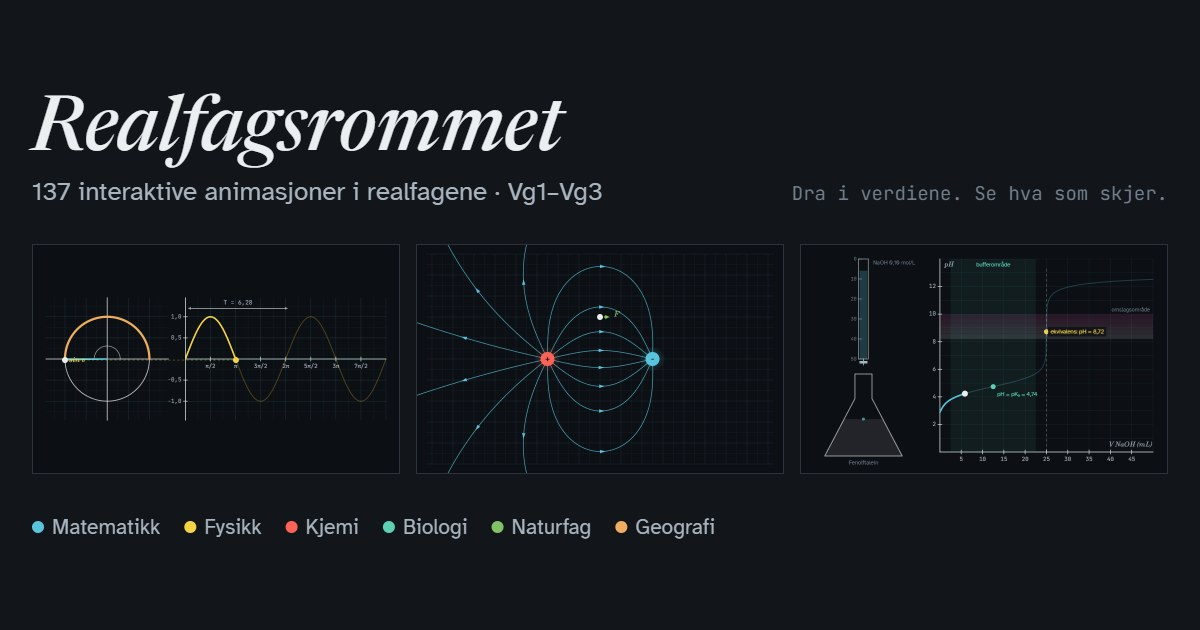
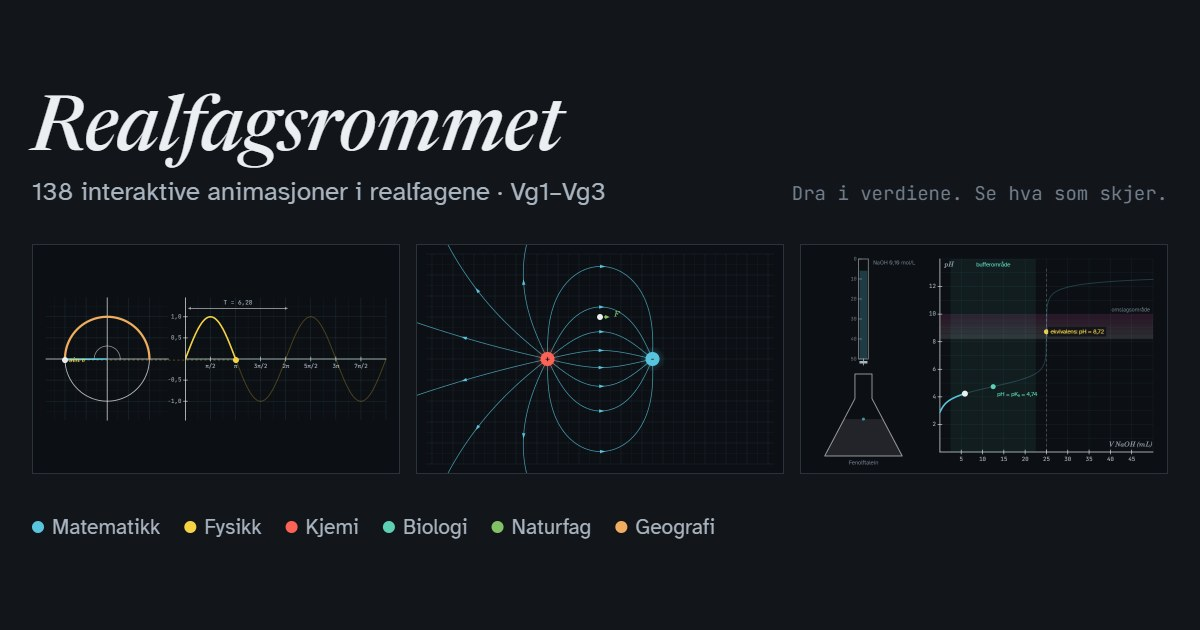
Legg til animasjon om standardavvik steg for steg (2P)
Viser gjennomsnitt, avvik, kvadrerte avvik som ekte kvadrater, varians
som gjennomsnittsareal og standardavviket som siden i det gule kvadratet.

Changed region(s): [[0.0308, 0.2714, 0.5242, 0.3317]]

diff --git a/assets/js/moduler/matematikk-5.js b/assets/js/moduler/matematikk-5.js
@@ -1,0 +1,64 @@
+'use strict';
+/* ================= MATEMATIKK (del 5) ================= */
+
+/* ---------- Standardavvik steg for steg ---------- */
+{
+const SETT={A:[6,8,10,12,14,10],lite:[9,10,10,11,9,11],stor:[3,5,10,15,17,10]};
+const STEG=[[1,'1. Gjennomsnitt'],[2,'2. Avvik'],[3,'3. Kvadrer'],[4,'4. Snitt av kvadratene'],[5,'5. Kvadratrot']];
+const TXT={1:['Gjennomsnittet er balansepunktet','Legg sammen alle verdiene og del på antallet. Tenk deg at punktene er like tunge lodd på en vippe.'],
+ 2:['Avvik: hvor langt er hvert punkt fra gjennomsnittet?','Avvikene til høyre er positive og til venstre negative. Summen av avvikene er alltid 0, så snittet av dem sier ingenting.'],
+ 3:['Kvadrer avvikene','Hvert avvik blir siden i et kvadrat. Arealet er avviket opphøyd i andre, og det er aldri negativt. Store avvik gir svært store kvadrater.'],
+ 4:['Finn gjennomsnittet av kvadratene','Flytt alle kvadratene til samme hjørne. Det gule kvadratet har gjennomsnittsarealet. Det arealet kalles variansen.'],
+ 5:['Ta kvadratroten','Siden i det gule kvadratet er standardavviket σ. Det har samme enhet som dataene, og de fleste punktene ligger mindre enn ett standardavvik fra gjennomsnittet.']};
+const stat=d=>{const n=d.length,m=d.reduce((a,b)=>a+b,0)/n,dv=d.map(x=>x-m),q=dv.map(v=>v*v),v=q.reduce((a,b)=>a+b,0)/n;return{n,m,dv,q,v,s:Math.sqrt(v)}};
+/* tall med høyst to desimaler, uten unødvendige nuller */
+const nn=x=>{let r=nf(Math.abs(x)<5e-3?0:x,2);if(r.includes(','))r=r.replace(/0+$/,'').replace(/,$/,'');return r};
+const sg=x=>Math.abs(x)<5e-3?'0':(x>0?'+':'')+nn(x);
+/* x̄ tegnet som kursiv x med strek over (kombinerende strek vises dårlig i lerretet) */
+function xb(x,y,rest,o){const s=o.s||13,a=o.a||'left',c=o.c||C.fg;const w=tw('x',{f:'m',s:s*1.15})+tw(rest,{f:'n',s});const x0=a==='center'?x-w/2:a==='right'?x-w:x;Tm('x',x0,y,{s:s*1.15,c});const xw=tw('x',{f:'m',s:s*1.15});ln(x0+1,y-s*.62,x0+xw+1,y-s*.62,c,1.2);T(rest,x0+xw+1,y,{f:'n',s,c,w:o.w})}
+const tt=x=>nn(x).replace('−','-').replace(',','{,}');
+M({id:'ma-standardavvik',s:'ma',c:['2P'],title:'Standardavvik steg for steg',short:'Standardavvik',kw:'standardavvik varians spredning spredningsmål avvik gjennomsnitt kvadrat kvadratrot sigma statistikk datasett uteligger stdav',
+lead:'Standardavviket forteller hvor langt verdiene typisk ligger fra gjennomsnittet. Gå gjennom de fem stegene og se hvordan tallet blir til: avvik, kvadrater, gjennomsnitt og kvadratrot.',
+hint:'Dra punktene langs tallinja. Klikk på linja for å legge til et punkt.',
+controls:[{id:'st',type:'seg',label:'Steg',value:1,options:STEG},{type:'btns',items:[['Neste steg',S=>setP('st',Math.min(5,S.p.st+1),S)],['Spill av alle stegene',S=>{setP('st',1,S);S.auto=.01}]]},
+ {type:'btns',items:[['Prøveresultater',S=>MOD['ma-standardavvik'].set(S,'A')],['Liten spredning',S=>MOD['ma-standardavvik'].set(S,'lite')],['Stor spredning',S=>MOD['ma-standardavvik'].set(S,'stor')],['Legg til uteligger',S=>{if(S.d.length<10)S.d.push(20)}],['Fjern siste punkt',S=>{if(S.d.length>2)S.d.pop()}]]}],
+tex:['\\bar x=\\frac{x_1+x_2+\\dots+x_n}{n}','\\text{avvik}=x_i-\\bar x','\\sigma^2=\\frac{(x_1-\\bar x)^2+(x_2-\\bar x)^2+\\dots+(x_n-\\bar x)^2}{n}','\\sigma=\\sqrt{\\sigma^2}'],
+about:['Punktene er poeng på en prøve med maks 20 poeng. Standardavviket $\\sigma$ måler spredningen: hvor langt verdiene typisk ligger fra gjennomsnittet $\\bar x$.','Vi kan ikke bare ta gjennomsnittet av avvikene, for de positive og de negative avvikene opphever hverandre alltid. Når vi <strong>kvadrerer</strong> avvikene, blir alle positive. Kvadratene er tegnet som ekte kvadrater: siden er avviket og arealet er avviket i andre.','Gjennomsnittet av kvadratene kalles <strong>variansen</strong>, $\\sigma^2$. Den har enheten «poeng i andre», som er vanskelig å tolke. Derfor tar vi <strong>kvadratroten</strong> og får standardavviket, som har samme enhet som dataene.','Fordi avvikene kvadreres, teller store avvik mye. Én uteligger kan derfor øke standardavviket kraftig. I GeoGebra gir kommandoen Standardavvik( ) dette tallet. Utvalgsstandardavviket $s$ deler på $n-1$ i stedet for $n$ og blir litt større.'],
+tasks:['Hvorfor blir summen av avvikene alltid 0? Dra i punktene og sjekk.','Sammenlign «Liten spredning» og «Stor spredning». Begge har gjennomsnitt 10. Hva skjer med kvadratene og med σ?','Legg til en uteligger. Hvorfor øker standardavviket så mye mer enn gjennomsnittet?','Dra punktene slik at σ = 0. Hvordan ser datasettet ut da?','Regn ut standardavviket for 4, 6 og 8 for hånd. Sjekk svaret ved å lage det samme datasettet her.'],
+init(S){S.d=[...SETT.A];S.x=[...S.d];S.f=1;S.auto=0;S.ym=6},
+set(S,k){S.d=[...SETT[k]]},
+update(S,dt){S.f=smooth(S.f,S.p.st,dt,3.2);
+ if(S.auto){S.auto+=dt;if(S.auto>3.4){S.auto=.01;if(S.p.st<5)setP('st',S.p.st+1,S);else S.auto=0}}
+ while(S.x.length<S.d.length)S.x.push(S.d[S.x.length]);S.x.length=S.d.length;S.x=S.x.map((x,i)=>i===S.dr?S.d[i]:smooth(x,S.d[i],dt,9));
+ const R=stat(S.x);S.ym=smooth(S.ym,Math.max(3.5,...R.dv.map(Math.abs))+.9,dt,4)},
+geom(S){const b=pad(S,30,S.W<560?78:64,40);return Plane(-1,21,-S.ym,S.ym,b,true)},
+draw(S){const P=this.geom(S);S.P=P;const xs=S.x,R=stat(xs),f=S.f,m=R.m,y0=P.Y(0);
+ const k1=clamp(f-1,0,1),k2=clamp(f-2,0,1),k3=ease(clamp(f-3,0,1)),kq=clamp((f-3)*1.7-.7,0,1),k4=ease(clamp(f-4,0,1));
+ const step=clamp(Math.round(f),1,5),[ti,su]=TXT[step];T(ti,30,22,{f:'d',s:S.W<560?19:22,w:500,c:C.fg});Twrap(su,30,S.W<560?46:48,S.W-60,{s:13,c:C.fg2});
+ if(k4>0){const a=P.X(m-R.s*k4),b=P.X(m+R.s*k4);rct(a,P.t,b-a,P.h,null,A(C.yellow,.07*k4))}
+ ln(P.X(m),P.t,P.X(m),P.t+P.h,A(C.blue,.55),1.4,[5,5]);xb(P.X(m)+6,P.t+12,' = '+nn(m),{s:12.5,c:C.blue});
+ ln(P.X(0),y0,P.X(20),y0,A(C.fg,.85),1.6);for(let v=0;v<=20;v++){const q=P.X(v);ln(q,y0-(v%2?3:5),q,y0+(v%2?3:5),A(C.fg,.7),1.2);if(v%2===0)T(String(v),q,y0+16,{a:'center',f:'n',s:11,c:C.fg3})}
+ T('poeng',P.X(20)+8,y0,{s:12,c:C.fg3});
+ if(k1<1){const al=1-k1;X.globalAlpha=al;poly([[P.X(m),y0+3],[P.X(m)-11,y0+19],[P.X(m)+11,y0+19]],null,A(C.blue,.8));X.globalAlpha=1}
+ const col=d=>Math.abs(d)<5e-3?C.fg2:d>0?C.teal:C.red;
+ /* kvadrater: vokser fra avviket, flyttes så til samme hjørne */
+ if(k2>0){const ord=R.dv.map((d,i)=>i).sort((i,j)=>Math.abs(R.dv[j])-Math.abs(R.dv[i]));
+  ord.forEach(i=>{const d=R.dv[i],a=Math.abs(d);if(a<.01)return;const xl=lerp(Math.min(m,xs[i]),m,k3),yb=lerp(d>0?0:-a*k2,0,k3),h=a*k2;const c=col(d);
+   const px=P.X(xl),py=P.Y(yb+h),w=a*P.sx,hh=h*P.sy;rct(px,py,w,hh,A(c,.85*(1-.5*k4)),A(c,(.16-.08*k3)*(1-.4*k4)),1.6);
+   if(k3<.3&&w>24&&hh>18)T(nn(R.q[i]),px+w/2,py+hh/2,{a:'center',f:'n',s:Math.min(14,w/3),c:A(C.fg,(1-k3/.3)*k2)})})}
+ if(kq>0){const s=R.s,px=P.X(m),w=s*P.sx;rct(px,P.Y(s),w,w,A(C.yellow,kq),A(C.yellow,.28*kq),2.6);
+  X.globalAlpha=kq;T((k4>.5?'σ² = ':'snittareal = ')+nn(R.v),px+w+8,P.Y(s)+10,{f:'n',s:13,w:500,c:C.yellow});X.globalAlpha=1}
+ /* avvik som piler under tallinja */
+ const al1=k1*(1-k2);if(al1>.02){const gap=Math.min(13,(P.t+P.h-y0-34)/R.n);X.globalAlpha=al1;R.dv.forEach((d,i)=>{const y=y0+30+i*gap;if(Math.abs(d)<.01){dot(P.X(m),y,2.5,C.fg2);return}arr(P.X(m),y,P.X(xs[i]),y,col(d),2,8);T(sg(d),P.X(xs[i])+(d>0?6:-6),y,{a:d>0?'left':'right',f:'n',s:11,c:col(d)})});X.globalAlpha=1}
+ if(k4>0){const yy=y0+30,a=P.X(m-R.s),b=P.X(m+R.s);X.globalAlpha=k4;ln(P.X(m),yy,b,yy,C.yellow,4);ln(a,yy,P.X(m),yy,A(C.yellow,.6),4,[6,4]);[a,b].forEach(q=>ln(q,yy-7,q,yy+7,C.yellow,2));T('σ = '+nf(R.s,2),b+8,yy,{f:'n',s:14,w:500,c:C.yellow});xb(a,yy+20,' − σ',{a:'center',s:11,c:C.fg2});xb(b,yy+20,' + σ',{a:'center',s:11,c:C.fg2});X.globalAlpha=1}
+ /* punktene, stablet når flere har samme verdi */
+ const cnt={};S.pts=xs.map((x,i)=>{const key=Math.round(S.d[i]*100);const k=cnt[key]=(cnt[key]||0)+1;return[P.X(x),y0-(k-1)*15,i]});
+ S.pts.forEach(([px,py,i])=>{const d=R.dv[i],c=mix(C.fg,col(d),k1),inb=k4>0&&Math.abs(d)<=R.s+1e-9;if(inb)glow(px,py,16,C.yellow,.35*k4);circ(px,py,7.5,A(C.stage,1),c,2);dot(px,py,7.5,c)});
+ const line={1:`Gjennomsnitt = (${S.d.map(nn).join(' + ')}) / ${R.n} = ${nn(m)}`,2:`Avvik: ${R.dv.map(sg).join(',  ')}    Sum = 0`,3:`Kvadrater: ${R.q.map(nn).join(' + ')} = ${nn(R.q.reduce((a,b)=>a+b,0))}`,4:`Varians: σ² = ${nn(R.q.reduce((a,b)=>a+b,0))} / ${R.n} = ${nn(R.v)}`,5:`σ = √${nn(R.v)} ≈ ${nf(R.s,2)}   ·   ${R.dv.filter(d=>Math.abs(d)<=R.s+1e-9).length} av ${R.n} punkter ligger i det gule feltet`}[step];
+ Twrap(line,30,S.H-24,S.W-200,{f:'n',s:12.5,c:C.fg})},
+pick(S,x,y){for(const[px,py,i]of (S.pts||[]).slice().reverse())if(near(x,y,px,py,16)){S.dr=i;return{move:mx=>{S.d[i]=clamp(Math.round(S.P.ix(mx)),0,20);S.x[i]=S.d[i]},up:()=>{S.dr=-1}}}},
+click(S,x,y){const P=S.P;if(!P||S.d.length>=10)return;if(Math.abs(y-P.Y(0))<26){const v=Math.round(P.ix(x));if(v>=0&&v<=20)S.d.push(v)}},
+readout(S){const R=stat(S.d);return[['n',R.n],['x̄',nn(R.m),'blue'],['sum av avvik','0'],['varians σ²',nn(R.v)],['σ',nf(R.s,2),'yellow']]},
+live(S){const R=stat(S.d);return`\\begin{aligned}\\sigma&=\\sqrt{\\frac{${R.q.map(tt).join('+')}}{${R.n}}}\\\\&=\\sqrt{${tt(R.v)}}\\approx ${tn(R.s,2)}\\end{aligned}`}
+});
+}

diff --git a/assets/js/laereplan.js b/assets/js/laereplan.js
@@ -4,7 +4,7 @@ const PLAN=[
  {k:'1T',t:[['Likninger, likningssett og ulikheter',['ma-likningssett','ma-andregrad']],['Andregradsfunksjoner og kvadratsetningene',['ma-andregrad']],['Lineære funksjoner',['ma-lineaer']],['Gjennomsnittlig og momentan vekstfart',['ma-sekant']],['Pytagoras’ setning',['ma-pytagoras']],['Sinus, cosinus og tangens',['ma-trekant','ma-enhetssirkel']],['Sinussetningen, cosinussetningen og arealsetningen',['ma-trekant']],['Algoritmer for å løse likninger',['ma-algoritme']],['Bevis og argumentasjon',['ma-bevis','ma-pytagoras']]]},
  {k:'NAT',t:[['Utforske en egen problemstilling og argumentere for valg av metode',['na-metode','fy-usikkerhet']],['Risikovurdere forsøk og håndtere avfallet forsvarlig',['na-sikkerhet']],['Hypoteser, modeller og teorier som forklarer verden',['na-metode','fy-atommodell','na-bigbang']],['Lage programmer som modellerer naturfaglige fenomener',['na-programmering','fy-luftmotstand']],['Sentrale bølgefenomener',['na-bolger','na-interferens']],['Trådløs kommunikasjon',['na-tradlos','na-spekter']],['Elektromagnetisk og ioniserende stråling, og helseeffekter',['na-spekter','na-ioniserende','na-halvering']],['Big bang og observasjoner som støtter teorien',['na-bigbang','fy-stjerneliv']],['Kjemiske bindinger og stoffenes egenskaper',['na-stoffegenskaper','ki-binding','ki-atom','ki-periodesystem','na-parfyme']],['Karbonforbindelser og karbonets betydning for livet',['na-forbrenning','ki-organisk','na-ester','na-melkesyre','na-havforsuring','na-karbon','bi-fotosyntese']],['Miljøgifter i næringskjeder og tiltak for helse og miljø',['na-miljogift','bi-energipyramide']],['Næringsstoffer og et variert kosthold',['na-kosthold','bi-blodsukker','na-konservering']],['Helse og livsstil, og hvor pålitelig informasjonen er',['na-risiko','na-smitte','na-immun','na-resistens','na-hormoner']],['DNA, arv og evolusjon',['na-dna','na-arv','na-evolusjon','bi-celledeling']],['Klimaendringer, utbredelse av arter og biologisk mangfold',['na-utbredelse','na-drivhus','na-karbon','na-havforsuring','na-okologi']],['Bioteknologi og etiske spørsmål',['na-crispr','bi-pcr']],['Energi og energiomforming (også i yrkesfagene)',['na-energi','fy-energi','fy-varme','fy-vindkraft','fy-energikilder']],['Syrer og baser (også i yrkesfagene)',['ki-ph','na-havforsuring','na-melkesyre','na-konservering']]]},
  {k:'GEO',t:[['Kart, kartprojeksjoner og geografiske verktøy',['ge-kart']],['Platetektonikk, jordskjelv og vulkaner',['ge-plater']],['Isbreer, landformer og landheving',['ge-isbre']],['Elver, erosjon og sedimenter',['ge-elv']],['Vær, klima og nedbør',['ge-regnskygge','ge-arstider']],['Solinnstråling, årstider og klimasoner',['ge-arstider']],['Naturfarer: flom og skred',['ge-flom']],['Klimaendringer og karbonkretsløpet',['na-karbon','na-drivhus']],['Befolkningsutvikling og demografi',['ge-befolkning']],['Naturressurser og energi',['fy-vindkraft']]]},
- {k:'2P',t:[['Sentralmål og spredningsmål',['ma-statistikk']],['Regresjon og modeller av data',['ma-regresjon']],['Eksponentiell vekst og vekstfaktor',['ma-vekstfaktor']],['Lineære og eksponentielle modeller',['ma-regresjon','ma-lineaer']],['Lån og personlig økonomi',['ma-lan']],['Befolkningsmodeller',['ge-befolkning']],['Algoritmer og programmering',['ma-algoritme']]]},
+ {k:'2P',t:[['Sentralmål og spredningsmål',['ma-statistikk','ma-standardavvik']],['Regresjon og modeller av data',['ma-regresjon']],['Eksponentiell vekst og vekstfaktor',['ma-vekstfaktor']],['Lineære og eksponentielle modeller',['ma-regresjon','ma-lineaer']],['Lån og personlig økonomi',['ma-lan']],['Befolkningsmodeller',['ge-befolkning']],['Algoritmer og programmering',['ma-algoritme']]]},
  {k:'R1',t:[['Vekstfart, grenseverdier og kontinuitet',['ma-grense','ma-sekant']],['Den deriverte geometrisk, algebraisk og numerisk',['ma-sekant']],['Funksjonsdrøfting med derivasjon',['ma-drofting']],['Newtons metode og numeriske løsninger',['ma-algoritme']],['Potenser, logaritmer og omvendte funksjoner',['ma-logaritme']],['Eksponentiell og logistisk vekst',['ma-logistisk']],['Modeller av reelle datasett',['ma-regresjon','ma-logistisk']],['Parameterframstilling av linjer',['ma-parameter']],['Vektorer i planet',['ma-vektor']]]},
  {k:'S1',t:[['Gjennomsnittlig og momentan vekstfart, derivasjon',['ma-sekant','ma-drofting']],['Grenseverdier og kontinuitet',['ma-grense']],['Optimering med derivasjon',['ma-okonomi','ma-drofting']],['Potenser og logaritmer',['ma-logaritme']],['Kombinatorikk og sannsynlighet',['ma-urne']],['Binomisk og hypergeometrisk fordeling',['ma-urne','ma-galton']],['Simulering av stokastiske forsøk',['ma-urne','ma-galton','bi-fangst']],['Utvalg og estimering',['ma-sgs','bi-fangst']]]},
  {k:'FY1',t:[['Planlegge og gjennomføre forsøk, analysere data og trekke konklusjoner',['na-metode','fy-usikkerhet','fy-friksjon']],['Vurdere, bruke og lage modeller',['fy-strikkhopp','na-programmering','fy-luftmotstand']],['Påstander og argumenter om energi og klima',['fy-energikilder','fy-vindkraft','fy-varmepumpe','na-drivhus']],['Rettlinjet bevegelse',['fy-bevegelse']],['Krefter, bevegelse og energi',['fy-newton','fy-friksjon','fy-heis','fy-fjaer','fy-energi']],['Numeriske metoder og programmering når akselerasjonen ikke er konstant',['fy-luftmotstand','fy-strikkhopp','na-programmering']],['Bevaring av bevegelsesmengde og energi',['fy-stot','fy-ballistisk','fy-energi']],['Energiomforming, energikvalitet og virkningsgrad',['na-energi','fy-varmepumpe','fy-energi']],['Ladning, spenning, elektrisk energi og effekt i kretser',['fy-krets','fy-iu']],['Temperatur, varme og temperaturendring',['fy-varme','fy-varmekapasitet','ki-gass']],['Stråling fra legemer med ulik temperatur og overflate',['fy-sortlegeme','fy-overflate']],['Jordas strålingsbalanse',['na-drivhus','fy-overflate']],['Atommodeller og observasjoner som støtter eller utfordrer dem',['fy-atommodell','fy-bohr']],['Fusjon, og hvordan grunnstoffer dannes i stjerner',['fy-fusjon','fy-stjerneliv']]]},

diff --git a/animasjon/ma-standardavvik/index.html b/animasjon/ma-standardavvik/index.html
@@ -1,0 +1,33 @@
+<!doctype html>
+<html lang="nb">
+<head>
+<meta charset="utf-8">
+<meta name="viewport" content="width=device-width,initial-scale=1">
+<title>Standardavvik steg for steg · Realfagsrommet</title>
+<meta name="description" content="Standardavviket forteller hvor langt verdiene typisk ligger fra gjennomsnittet. Gå gjennom de fem stegene og se hvordan tallet blir til: avvik, kvadrater, gjennomsnitt og kvadratrot.">
+<link rel="canonical" href="https://isakhallen.github.io/Realfagsrommet/animasjon/ma-standardavvik/">
+<meta property="og:type" content="website">
+<meta property="og:site_name" content="Realfagsrommet">
+<meta property="og:locale" content="nb_NO">
+<meta property="og:title" content="Standardavvik steg for steg">
+<meta property="og:description" content="Standardavviket forteller hvor langt verdiene typisk ligger fra gjennomsnittet. Gå gjennom de fem stegene og se hvordan tallet blir til: avvik, kvadrater, gjennomsnitt og kvadratrot.">
+<meta property="og:url" content="https://isakhallen.github.io/Realfagsrommet/animasjon/ma-standardavvik/">
+<meta property="og:image" content="https://isakhallen.github.io/Realfagsrommet/assets/bilder/animasjoner/ma-standardavvik.jpg">
+<meta property="og:image:width" content="1200">
+<meta property="og:image:height" content="630">
+<meta property="og:image:alt" content="Animasjon: Standardavvik steg for steg">
+<meta name="twitter:card" content="summary_large_image">
+<meta name="theme-color" content="#12161B">
+<link rel="icon" href="../../favicon.svg" type="image/svg+xml">
+<script>location.replace('../../#ma-standardavvik')</script>
+<style>body{margin:0;min-height:100vh;display:grid;place-items:center;padding:16px;box-sizing:border-box;background:#12161B;color:#ECEFF1;font:17px/1.55 system-ui,sans-serif}main{max-width:60ch}h1{font-weight:500}p{color:#A9B4BF}a{color:#58C4DD}</style>
+</head>
+<body>
+<main>
+<p>Realfagsrommet · Matematikk · Matematikk 2P</p>
+<h1>Standardavvik steg for steg</h1>
+<p>Standardavviket forteller hvor langt verdiene typisk ligger fra gjennomsnittet. Gå gjennom de fem stegene og se hvordan tallet blir til: avvik, kvadrater, gjennomsnitt og kvadratrot.</p>
+<p><a href="../../#ma-standardavvik">Åpne animasjonen</a></p>
+</main>
+</body>
+</html>

diff --git a/index.html b/index.html
@@ -4,7 +4,7 @@
 <meta charset="utf-8">
 <meta name="viewport" content="width=device-width,initial-scale=1,viewport-fit=cover">
 <title>Realfagsrommet</title>
-<meta name="description" content="137 interaktive animasjoner i matematikk, fysikk, kjemi, biologi, naturfag og geografi for Vg1–Vg3. Dra i verdiene, se hva som skjer, og les formelen som forklarer det.">
+<meta name="description" content="138 interaktive animasjoner i matematikk, fysikk, kjemi, biologi, naturfag og geografi for Vg1–Vg3. Dra i verdiene, se hva som skjer, og les formelen som forklarer det.">
 <meta name="theme-color" content="#12161B">
 <meta name="color-scheme" content="dark">
 <link rel="icon" href="favicon.svg" type="image/svg+xml">
@@ -17,7 +17,7 @@
 <meta property="og:site_name" content="Realfagsrommet">
 <meta property="og:locale" content="nb_NO">
 <meta property="og:title" content="Realfagsrommet">
-<meta property="og:description" content="137 interaktive animasjoner i matematikk, fysikk, kjemi, biologi, naturfag og geografi for Vg1–Vg3. Dra i verdiene, se hva som skjer, og les formelen som forklarer det.">
+<meta property="og:description" content="138 interaktive animasjoner i matematikk, fysikk, kjemi, biologi, naturfag og geografi for Vg1–Vg3. Dra i verdiene, se hva som skjer, og les formelen som forklarer det.">
 <meta property="og:url" content="https://isakhallen.github.io/Realfagsrommet/">
 <meta property="og:image" content="https://isakhallen.github.io/Realfagsrommet/assets/bilder/forside.jpg">
 <meta property="og:image:width" content="1200">
@@ -35,6 +35,7 @@
 <script defer src="assets/js/moduler/matematikk-2.js"></script>
 <script defer src="assets/js/moduler/matematikk-3.js"></script>
 <script defer src="assets/js/moduler/matematikk-4.js"></script>
+<script defer src="assets/js/moduler/matematikk-5.js"></script>
 <script defer src="assets/js/moduler/fysikk-1.js"></script>
 <script defer src="assets/js/moduler/fysikk-2.js"></script>
 <script defer src="assets/js/moduler/fysikk-3.js"></script>

diff --git a/assets/js/temaer.js b/assets/js/temaer.js
@@ -8,7 +8,7 @@ const TEMA={
   ['derivasjon','Grenseverdier og derivasjon',['ma-grense','ma-sekant','ma-drofting']],
   ['integrasjon','Integrasjon, rekker og differensiallikninger',['ma-riemann','ma-fundamental','ma-omdreining','ma-rekker','ma-retningsfelt','fy-fjaer']],
   ['vektorer','Vektorer og parameterframstilling',['ma-vektor','ma-vektor3d','ma-parameter']],
-  ['statistikk','Statistikk og sannsynlighet',['ma-statistikk','ma-urne','ma-galton','ma-sgs','ma-hypotese','na-risiko','bi-fangst']]],
+  ['statistikk','Statistikk og sannsynlighet',['ma-statistikk','ma-standardavvik','ma-urne','ma-galton','ma-sgs','ma-hypotese','na-risiko','bi-fangst']]],
  fy:[['bevegelse','Bevegelse og krefter',['fy-bevegelse','fy-newton','fy-friksjon','fy-heis','fy-luftmotstand','fy-strikkhopp','fy-stot','fy-ballistisk','fy-kast','fy-sirkel','fy-gravitasjon']],
   ['energi','Energi, varme og svingninger',['fy-energi','na-energi','fy-varme','fy-varmekapasitet','ki-gass','fy-fjaer','fy-varmepumpe','fy-vindkraft','fy-energikilder']],
   ['elektrisitet','Elektrisitet og magnetisme',['fy-krets','fy-iu','fy-efelt','fy-plater','fy-bfelt','fy-induksjon']],

diff --git a/sw.js b/sw.js
@@ -1,6 +1,6 @@
 // Generert av verktoy/bygg.mjs – ikke rediger for hånd.
 // Offline-støtte: henter alltid fra nettet først, og bruker lagret kopi bare når nettet svikter.
-const VERSION = 'rfr-fda8cae807';
+const VERSION = 'rfr-4272a206dc';
 const PRECACHE = ["./",
   "index.html",
   "favicon.svg",
@@ -35,6 +35,7 @@ const PRECACHE = ["./",
   "assets/js/moduler/matematikk-2.js",
   "assets/js/moduler/matematikk-3.js",
   "assets/js/moduler/matematikk-4.js",
+  "assets/js/moduler/matematikk-5.js",
   "assets/js/moduler/naturfag-2.js",
   "assets/js/moduler/naturfag-3.js",
   "assets/js/moduler/naturfag-4.js",
